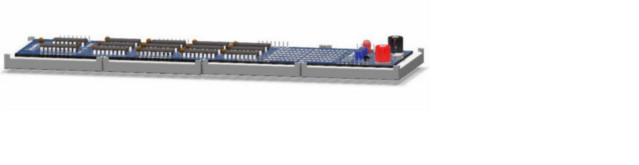
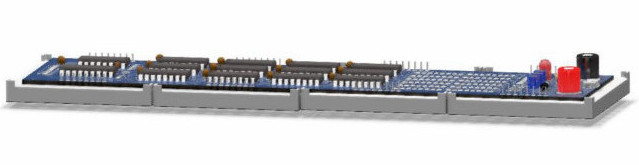
modify image files

diff --git a/README.md b/README.md
@@ -4,7 +4,7 @@
 
 This repository contains hardware designs and software for Narra, a portable, low cost and open source LED signage platform.
 
-![Narra](/doc/Images/ND-01-perspective.jpg)
+![Narra](/doc/Images/ND-01-top.jpg)
 
 
 ## Principal authors (unordered): 
